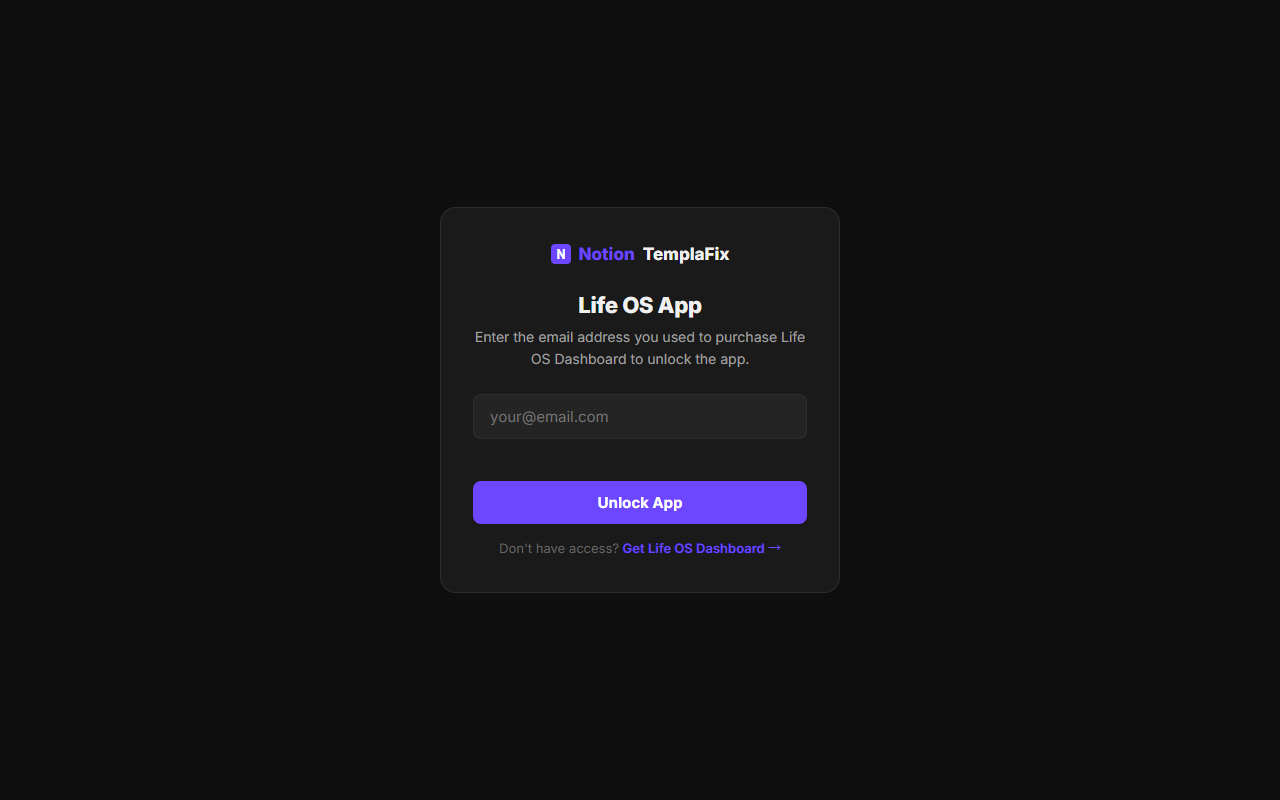
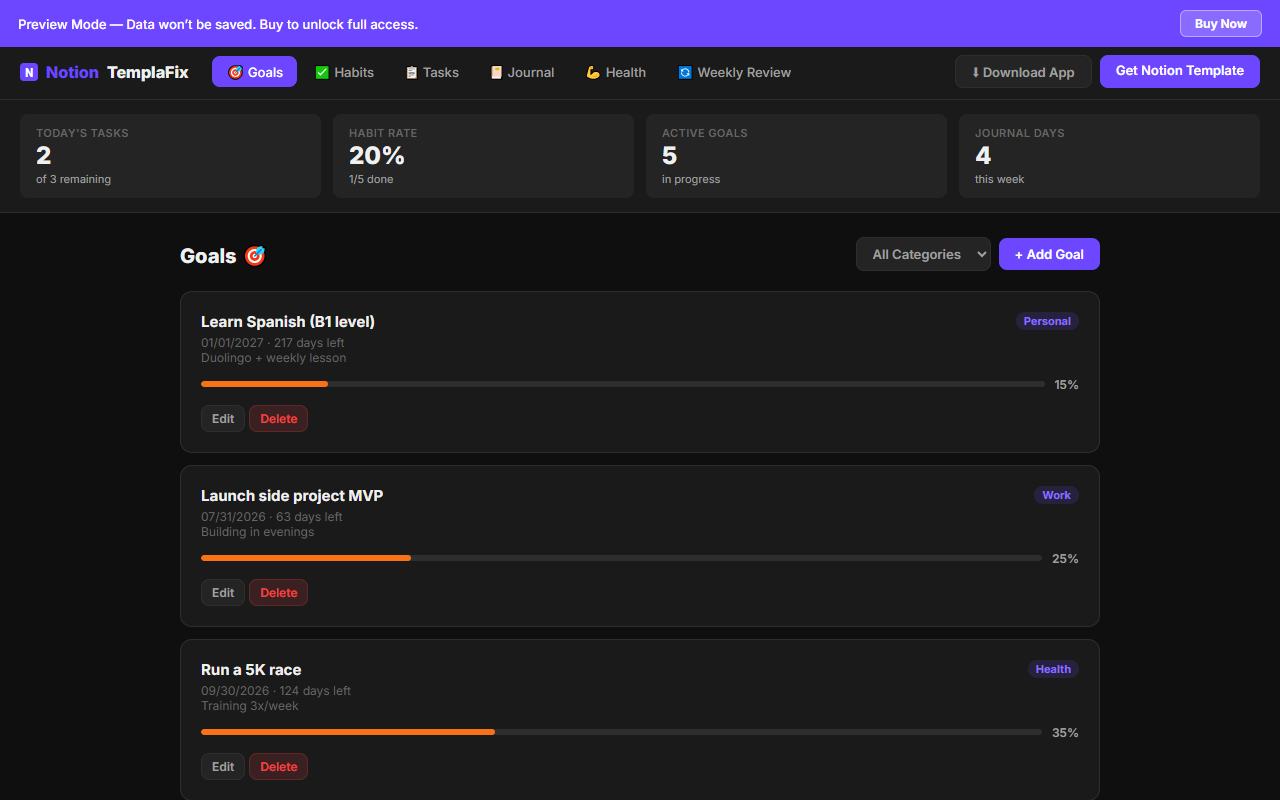
Update life-os-app preview screenshot showing demo app interface

diff --git a/screenshot_life_os.py b/screenshot_life_os.py
@@ -1,0 +1,52 @@
+from playwright.sync_api import sync_playwright
+import ftplib, os
+
+CHROME = 'C:/Program Files/Google/Chrome/Application/chrome.exe'
+OUT = 'C:/Users/Administrator/notiontemplafix/images/previews/life-os-app.png'
+URL = 'https://notiontemplafix.com/life-os-app.html'
+
+HOST = "212.85.28.149"
+USER = "u868313694.notiontemplafix.com"
+PASS = "Xxh113324~"
+REMOTE = "/public_html/images/previews/life-os-app.png"
+
+# Screenshot
+with sync_playwright() as p:
+    browser = p.chromium.launch(
+        executable_path=CHROME,
+        args=['--no-sandbox', '--disable-dev-shm-usage']
+    )
+    context = browser.new_context(viewport={'width': 1280, 'height': 800})
+    page = context.new_page()
+
+    # Inject sessionStorage before page scripts run:
+    # ntf_demo=1 makes DEMO=true (LS=sessionStorage)
+    # ntf_unlock_life-os-app=1 makes LS.getItem(UNLOCK_KEY)==='1' → bootApp() called → unlockGate hidden
+    page.add_init_script("""
+        sessionStorage.setItem('ntf_demo', '1');
+        sessionStorage.setItem('lib_unlocked_life-os', '1');
+    """)
+
+    print(f'Loading {URL} in demo mode...')
+    try:
+        page.goto(URL, wait_until='networkidle', timeout=25000)
+    except Exception:
+        page.goto(URL, wait_until='domcontentloaded', timeout=20000)
+
+    # Wait for App UI to fully render
+    page.wait_for_timeout(2000)
+
+    page.screenshot(path=OUT, clip={'x': 0, 'y': 0, 'width': 1280, 'height': 800})
+    browser.close()
+
+size = os.path.getsize(OUT)
+print(f'Screenshot saved: {OUT} ({size} bytes)')
+
+# FTP upload
+ftp = ftplib.FTP(HOST, timeout=30)
+ftp.login(USER, PASS)
+ftp.set_pasv(True)
+with open(OUT, 'rb') as f:
+    ftp.storbinary(f'STOR {REMOTE}', f)
+ftp.quit()
+print(f'FTP uploaded: {REMOTE}')
